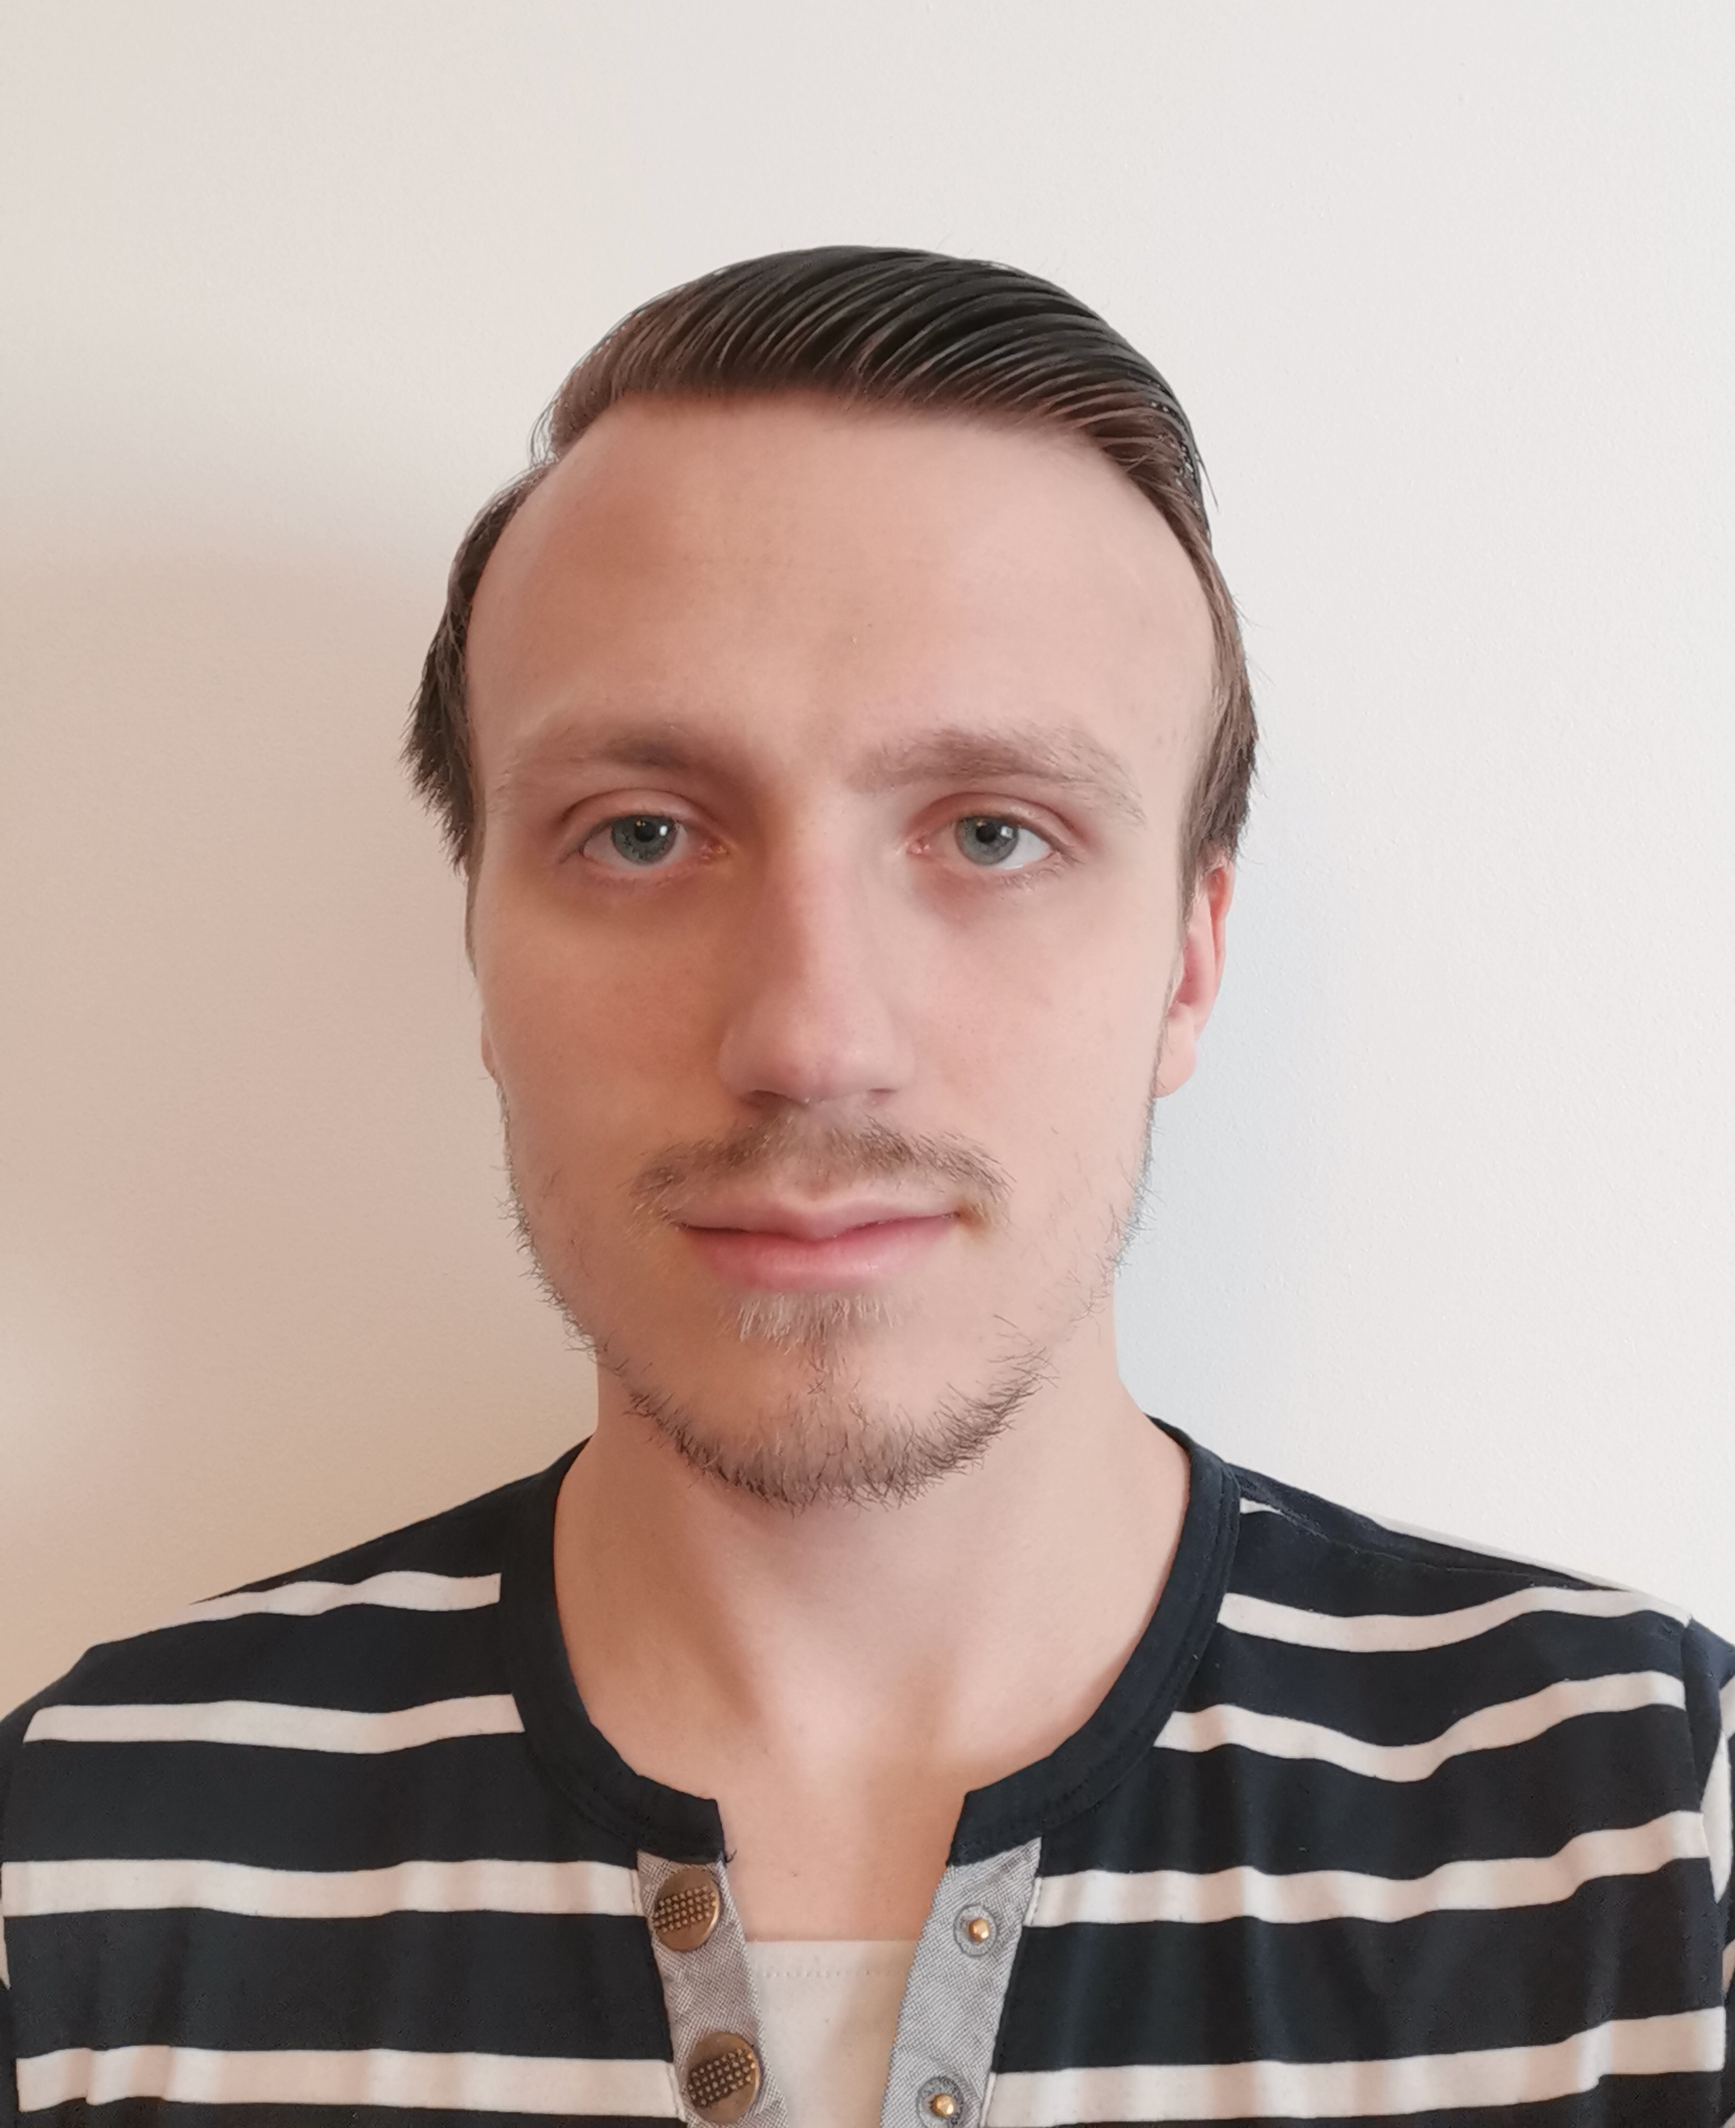
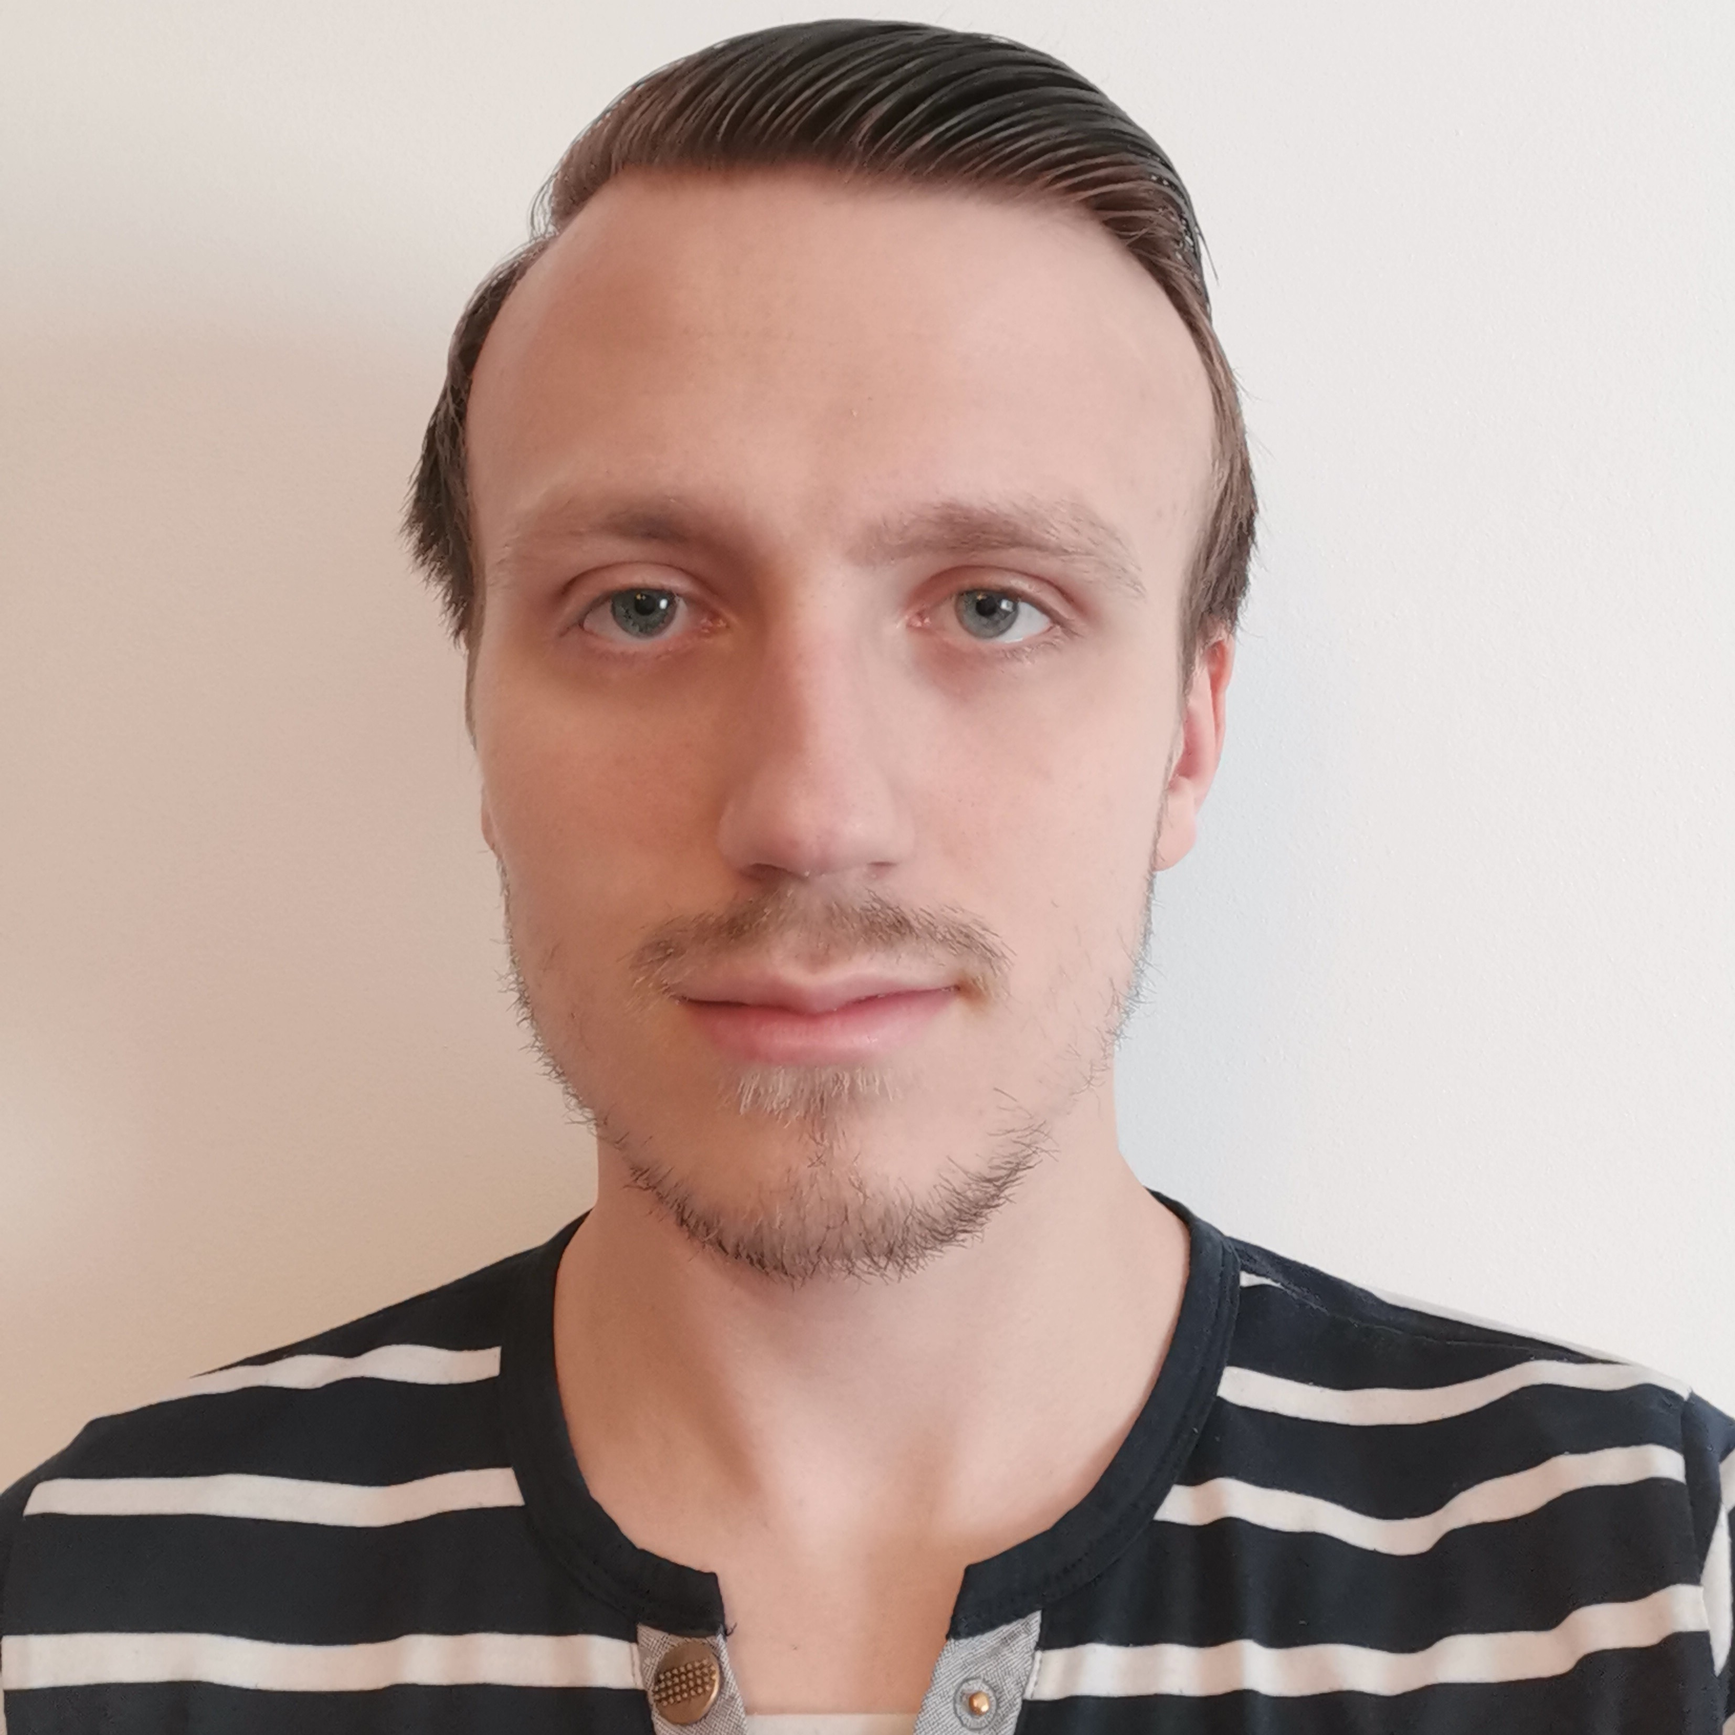
Refine M2 small details

diff --git a/_portfolio/project2.md b/_portfolio/project2.md
@@ -1,26 +1,27 @@
 ---
 title: Milestone 2
-subtitle: Validation
+subtitle: Validation 1
 
 caption:
   title: Milestone 2
-  subtitle: Validation
-  thumbnail: assets/img/portfolio/M2.png  
+  subtitle: Validation 1
+  thumbnail: assets/img/timeline/M2.jpg
 
 ---
 
 # Problem identification
 
-A few months ago I traveled by train between my hometown and Bucharest. With my CCNP exam being close, I took the opportunity to study for the duration of the trip. The person that was standing near me happened to be a senior network engineer at Vodafone, and he provided me with some useful advice for my CCNP exam.
+<em>„A few months ago, I was traveling by train between my hometown and Bucharest. With my CCNP exam being close, I took the opportunity to study for the duration of the trip. The person that was standing next to me happened to be a Senior Network Engineer at Vodafone, and he provided me with some useful advice for my CCNP exam.</em><br>
+<em>As the conversation progressed, one of the issues he told me he was struggling with at that moment was migrating his topology from Cisco to Huawei. As part of Huawei’s TAC, he found my feedback regarding his configuration valuable.</em><br>
+<em>He told me how, in the past, there used to be network command translators, especially for the smaller vendors. Even that limited functionality turned out to be extremely useful. Yet, these kinds of translators are currently discontinued. And this difficulty of working in multi-vendor environments was something that, at that time, I had already experienced.”</em>
+<h5>Alexandru Năstase, Product Owner</h5><br><br>
 
-As the conversation progressed, one of the issues he told me that he is currently struggling with was migrating his topology from Cisco to Huawei. As part of Huawei’s TAC, he found my feedback regarding his configuration valuable.
 
-He told me how, in the past, there used to be network command translators, especially for the smaller vendors. Even that limited functionality turned out to be extremely useful. Yet, these kinds of translators are currently discontinued. And this difficulty of working in multi-vendor environments was something that, at that time, I had already experienced.
 
 ## Finding a solution
 
 
-We are planning on implementing a network translator to address the issue of topology migration. To make this process even easier on the customer side, we are planning on implementing automatic configuration of the devices using NETCONF.
+Our plan is to implement a network configuration translation tool to address the issue of vendor transition. To make this process even easier on the customer side, we are planning on implementing automatic configuration of the devices using NETCONF.
 
 # Customer discovery plan
 
@@ -29,7 +30,7 @@ In order to verify that our claim about changing vendors in the networking space
 
 # Customer Segment & problem validation
 
-In order to verify that our claim about changing vendors in the networking space is a relevant issue, we decided to conduct an online survey, targeting both network professionals and hobbyists, as these are the customer segments we identified. We decided to disguise the survey as a data collection and assessment about our claims, being careful not to pitch our idea in any way.
+In order to verify that our claim about changing vendors in the networking industry is a relevant issue, we decided to conduct an online survey, targeting both network professionals and hobbyists, as these are the customer segments we identified. We decided to disguise the survey as a data collection and assessment about our claims, being careful not to pitch our idea in any way.
 
 We managed to reach a number of respondents via different social media platforms, such as LinkedIn, Facebook or WhatsApp.
 
@@ -38,15 +39,16 @@ We managed to reach a number of respondents via different social media platforms
     <img class = "screenshots" src="assets/img/proof/Alex_Linkedin.png">
     <img class = "screenshots" src="assets/img/proof/linkedin.PNG">
     <img class = "screenshots8" src="assets/img/proof/whatsapp.PNG">
-</div>
+</div><br>
 
 # Customer Segment 
 
-For our survey platform we decided to use Google Forms as it satisfies our needs. The questions we asked can be found <a href = "https://forms.gle/NtaNibz5MrkmYVRi9" target="_blank">here</a>. In order to reach all of our customer segments, we used a plethora of platforms, such as: LinkedIn, Microsoft Teams, Facebook, WhatsApp and directly distributing it to people we might think are interested in this domain.
+For our survey platform we decided to use Google Forms as it satisfies our needs. The questions we asked can be found <a href = "https://forms.gle/NtaNibz5MrkmYVRi9" target="_blank">here</a>. In order to reach all of our customer segments, we used a plethora of platforms, such as: Facebook, LinkedIn and WhatsApp, distributing it to people we thought that might be interested in this domain.
 
 After distributing our survey, we managed to collect a number of 37 answers. Considering that the survey is aimed at a very specific IT domain, we expected a smaller number of respondents. This didn’t however affect the overall quality of our answers: we received a fair number of useful insights that we’ll discuss next.
 
-# Discussing the results 
+# Discussing the results
+Below you can find an analysis of the answers provided by our form's respondents. The plain answers can be found <a href="https://docs.google.com/spreadsheets/d/1iFS3vL05lR2ij8GXKsBvtCh1oeYSta3hTrJatOAoLP0/edit?usp=sharing" target="_blank">here</a>.
 
 <img class="center" src = "assets/img/results/res1.JPG">
  This question was used to have an approximation of the market share each vendor possesses. This will be used by us to know which vendors we should prioritize over others. You can clearly see that Cisco is the number one technology used, followed by Huawei and Juniper on slightly equal spots.
@@ -60,18 +62,18 @@ After distributing our survey, we managed to collect a number of 37 answers. Con
 
  <img class = "center" src = "assets/img/results/res3.JPG">
  
-Out of our answers, about half of them came from professionals and half from hobbyists. This can be interpreted as a balance between our two target groups (but can also be just an imbalance resulting from a bias in the will to respond to surveys between the two groups)
+Out of our answers, about half of them came from professionals and half from hobbyists. This can be interpreted as a balance between our two target groups (but can also be just an imbalance resulting from a bias in the will to respond to surveys between the two groups).
 
  
 
  <img class = "center" src = "assets/img/results/res4.JPG">
-We used this metric as an approximation for the network size. 
+The size of our respondents' working teams is a metric that we intend to use as an approximation for the network size. 
 
  
 
  <img class = "center" src = "assets/img/results/res5.JPG">
-When asked whether they have changed vendors in their production environment, 52,6% of the respondents have answered affirmatively
-The respondents that have changed vendors have stated that the transition process took at least two months to at most six months, depending on the size of the network and the number of devices that composed the network; 50% of the respondents stated that the transition process took three to six months, depending on the complexity of the process
+When asked whether they have changed vendors in their production environment, 52,6% of the respondents have answered affirmatively. <br>
+The respondents that have changed vendors have stated that the transition process took at least two months to at most six months, depending on the size of the network and the number of devices that composed the network; 50% of the respondents stated that the transition process took three to six months, depending on the complexity of the process.
 
  
 
@@ -81,9 +83,8 @@ Out of the professionals that changed vendors, over half of them (60%) found one
  
 
  <img class = "center" src = "assets/img/results/res7.JPG">
-One especially insightful answer stated that the main difficulty that made things take longer than expected while changing vendors was the lack of functionality on the new vendor. While this could be a negative sign, we think that the product we want to develop will help with identifying these kinds of situations in a more timely manner, providing the network engineers with powerful insight from the start: they will need to change the approach when configuring the new devices.
-When asked whether they have used NETCONF, only 26,3% of our professional respondents have answered affirmatively, stating that the
-While more respondents have used SNMP in the past, compared to NETCONF, the main use case of SNMP was monitoring, while NETCONF was used for configurations. We find the 26.3% of respondents that have used NETCONF a relevant percentage to justify our plan to also use NETCONF to automatically push the configurations generated by our product.
+One especially insightful answer stated that the main difficulty that made things take longer than expected while changing vendors was the lack of functionality on the new vendor. While this could be a negative sign, we think that the product we want to develop will help with identifying these kinds of situations in a more timely manner, providing the Network Engineers with powerful insight from the start: they will need to change the approach when configuring the new devices.<br>
+While more respondents have used SNMP in the past, compared to NETCONF, the main use case of SNMP was monitoring, while NETCONF was used for configurations. We find the 26,3% of respondents that have used NETCONF a relevant percentage to justify our plan to also use NETCONF to automatically push the configurations generated by our product.
 
 
  
@@ -91,7 +92,7 @@ While more respondents have used SNMP in the past, compared to NETCONF, the main
  <img class = "centerRes8" src = "assets/img/results/res8_1.JPG">
  <img class = "centerRes8" src = "assets/img/results/res8_2.JPG">
 </div>
-On the hobbyist side, things were also interesting. When asked how satisfied our respondents are with the vendors they currently use, the responses were positive, the hobbyists stating that they are moderately satisfied to very satisfied with their current vendors.
+On the hobbyists side, things were also interesting. When asked how satisfied our respondents are with the vendors they currently use, the responses were positive, the hobbyists stating that they are moderately satisfied to very satisfied with the vendors they currently use.
 
  
 <div>
@@ -100,9 +101,10 @@ On the hobbyist side, things were also interesting. When asked how satisfied our
 While a higher satisfaction means that they are unlikely to change the vendor or learn a new one, we can observe a very high interest in other technologies among (amogus?) hobbyists, with most of them stating that they would spend less than a month or two learning something new. We find this time to be on the low side. This shows that the idea of a tool to help you see the difference between configurations would be a helpful one.
   
 
- <img class = "center" src = "assets/img/results/res10.JPG">
-While a higher satisfaction means that they are unlikely to change the vendor or learn a new one, we can observe a very high interest in other technologies among (amogus?) hobbyists, with most of them stating that they would spend less than a month or two learning something new. We find this time to be on the low side. This shows that the idea of a tool to help you see the difference between configurations would be a helpful one.
+ <img class = "center" src = "assets/img/results/res10.JPG"><br>
+
+# Survey analysis conclusions
+After analyzing our respondents' answers, we learned that many professionals find the vendor transition process long and difficult due to the complexity of the networks requiring this process and, most importantly, the lack of automation. For this, we consider these responses a good enough validation for our startup project idea.
 
 # Moving to customer validation stage
-
 We consider that the project is ready to be moved to the Customer Validation stage. While changing vendors isn’t the prevalent problem in the networking space, we find that it is a relevant one. This transition took between two and six months, so this can be a real problem for the company. We find that our product will be a valuable addition to the networking space.
